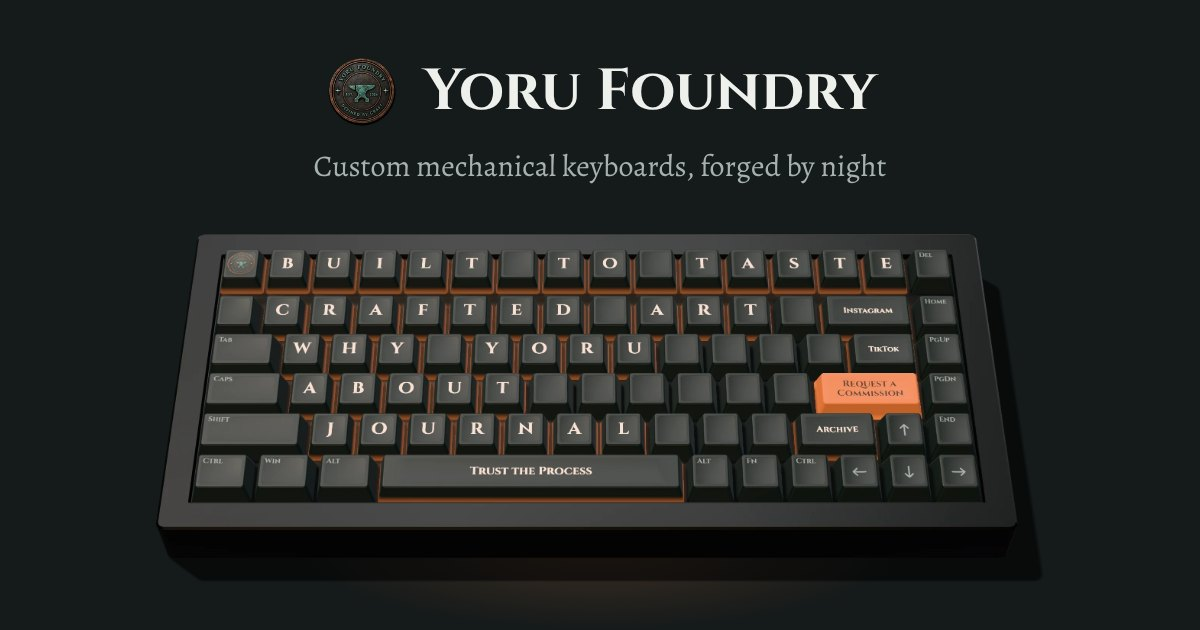
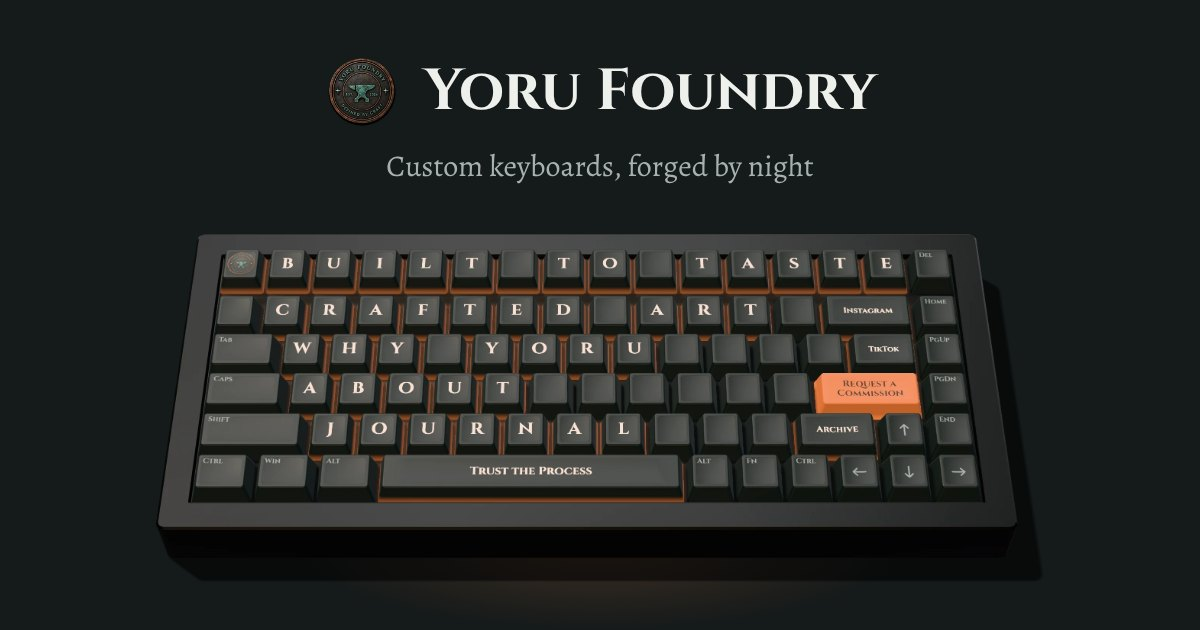
Say custom keyboards, not custom mechanical keyboards
Mike may build Hall effect or TMR boards later. The homepage title, every
page's default description, the link-preview image and the project rules now
say custom keyboards. (About keeps Mike's own story, which already names Hall
effect and mechanical builds.)

Claude-Session: https://claude.ai/code/session_014kgsP4zXbR91SpjPr6JWR2

Changed region(s): [[0.2467, 0.2413, 0.74, 0.3016]]

diff --git a/build.js b/build.js
@@ -299,7 +299,7 @@ function parsePage(file) {
 const pageUrl = (page) => `${config.siteUrl}/${page.output === "index.html" ? "" : page.output}`;
 function shareMeta(page) {
   const title = escapeHtml(page.output === "index.html" ? page.title : `${page.title} | ${config.siteTitle}`);
-  const description = escapeHtml(page.description || "Custom mechanical keyboards, hand-built, tuned and named one at a time in a small Miami workshop.");
+  const description = escapeHtml(page.description || "Custom keyboards, hand-built, tuned and named one at a time in a small Miami workshop.");
   const image = `${config.siteUrl}/assets/share.jpg?v=${config.stylesheetVersion}`;
   return (page.noindex ? '<meta name="robots" content="noindex">' : `<link rel="canonical" href="${pageUrl(page)}">`) +
     `<meta property="og:type" content="website"><meta property="og:site_name" content="${config.siteTitle}"><meta property="og:title" content="${title}">` +

diff --git a/src/index.html b/src/index.html
@@ -1,8 +1,8 @@
 <!-- PAGE
 {
   "output": "index.html",
-  "title": "Custom mechanical keyboards, forged by night",
-  "description": "Custom mechanical keyboards, hand-built, tuned and named one at a time in a small Miami workshop.",
+  "title": "Custom keyboards, forged by night",
+  "description": "Custom keyboards, hand-built, tuned and named one at a time in a small Miami workshop.",
   "activeNav": "none",
   "layout": "default",
   "footerVariant": "standard"

diff --git a/AGENTS.md b/AGENTS.md
@@ -22,7 +22,7 @@ These rules are standing constraints for all future work in this repository. Rea
 
 ### Product and brand posture
 
-- Yoru Foundry is a solo, commission-first workshop. One person hand-builds custom mechanical keyboards to order.
+- Yoru Foundry is a solo, commission-first workshop. One person hand-builds custom keyboards to order (mechanical now; Hall effect or TMR magnetic boards may come later).
 - The site must read as a workshop / atelier and portfolio, **not** as a conventional ecommerce store.
 - Low volume and long lead times are part of the operating model; do not introduce UI that implies mass retail, instant fulfillment, or a large team.
 - The Verdigris direction is approved. Systematize and refine it; do not repaint or redesign it from scratch unless Mike explicitly asks.
@@ -150,7 +150,7 @@ Also avoid ecommerce patterns that imply inventory scale, urgency, discounting, 
 ### Layout and hero guardrails
 
 - Follow the approved homepage composition in `mockups/home.html`: media frame with the 75% layout drawing (until real footage exists), headline and line beneath, one copper commission button, two entry links, and a build sheet beside it.
-- The homepage H1 is "Forged by night." with "After dark, the forge is lit and a keyboard is made." beneath it (Mike, 2026-10-06). The page `<title>` and meta description say "custom mechanical keyboards".
+- The homepage H1 is "Forged by night." with "After dark, the forge is lit and a keyboard is made." beneath it (Mike, 2026-10-06). The page `<title>` and meta description say "custom keyboards" (not "mechanical": Mike may build Hall effect or TMR boards too, 2026-10-07).
 - Avoid the AI-template tells: eyebrow labels, details joined with dots, "→" on links, 01/02/03 on non-sequences, and rows of identical cards.
 - Do not convert the site to a generic centered landing-page template. The hero must not become a centered H1 with two CTAs.
 - Product photography and real build media will become the visual artwork. UI chrome stays restrained enough to support it.

diff --git a/YORU_SITE_MEMORY.md b/YORU_SITE_MEMORY.md
@@ -9,7 +9,7 @@ direction and the reasoning behind it.
 - Brand: **Yoru Foundry**. "Yoru" means night.
 - Motto: **Refined by Craft.** (footer). EST. 2026.
 - Homepage headline: **"Forged by night."** with "After dark, the forge is lit and a keyboard is made." beneath it.
-- Positioning: one builder in Miami, commission-first custom mechanical keyboards. Newcomers first, enthusiasts
+- Positioning: one builder in Miami, commission-first custom keyboards (not only mechanical: Hall effect or TMR may follow). Newcomers first, enthusiasts
   second. Full builds from $250; bring-your-own-parts is priced after Mike checks the parts.
 - Builds are **named one-of-ones** (YF-001 "Ember" is the placeholder), so each reads as a personal piece.
 - Feel: a forge at night. Dark, quiet, hand-made, lit by hot copper. Not gaming RGB, not SaaS, not generic

diff --git a/PRODUCT.md b/PRODUCT.md
@@ -18,7 +18,7 @@ web
 ## Product Purpose
 
 Yoru Foundry is a one-person, commission-first workshop in Miami. Mike hand-builds and tunes custom
-mechanical keyboards to order. The site exists to:
+keyboards to order (mechanical now; Hall effect or TMR magnetic boards may follow). The site exists to:
 - explain what a custom build is,
 - show the bench work behind it,
 - help a visitor choose by ear and feel,
